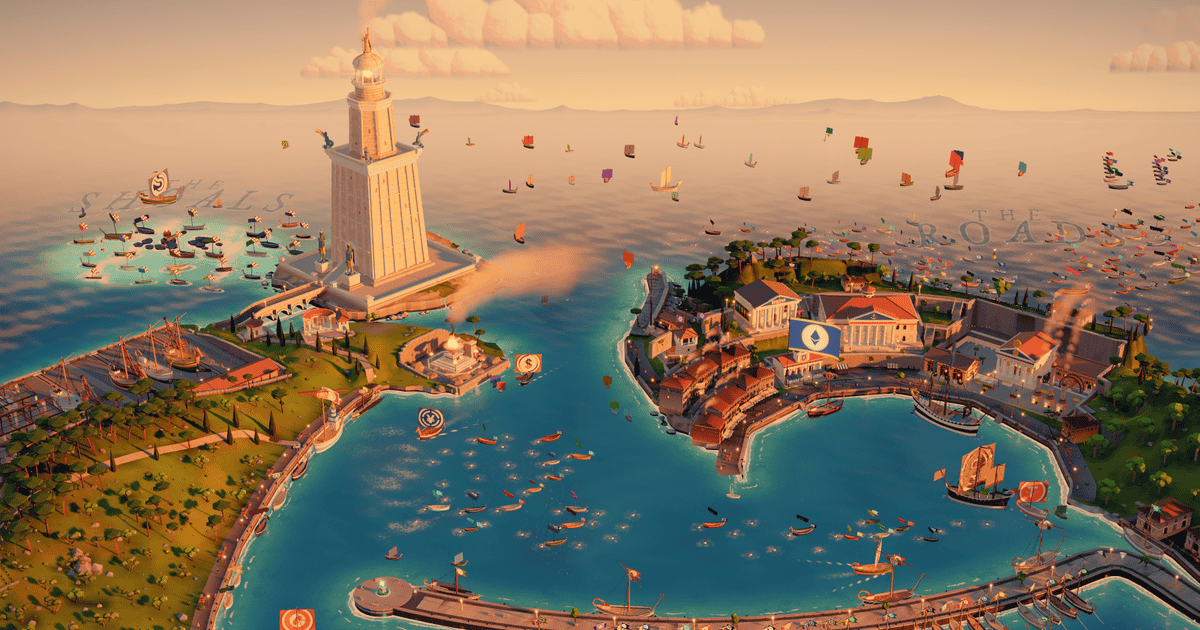
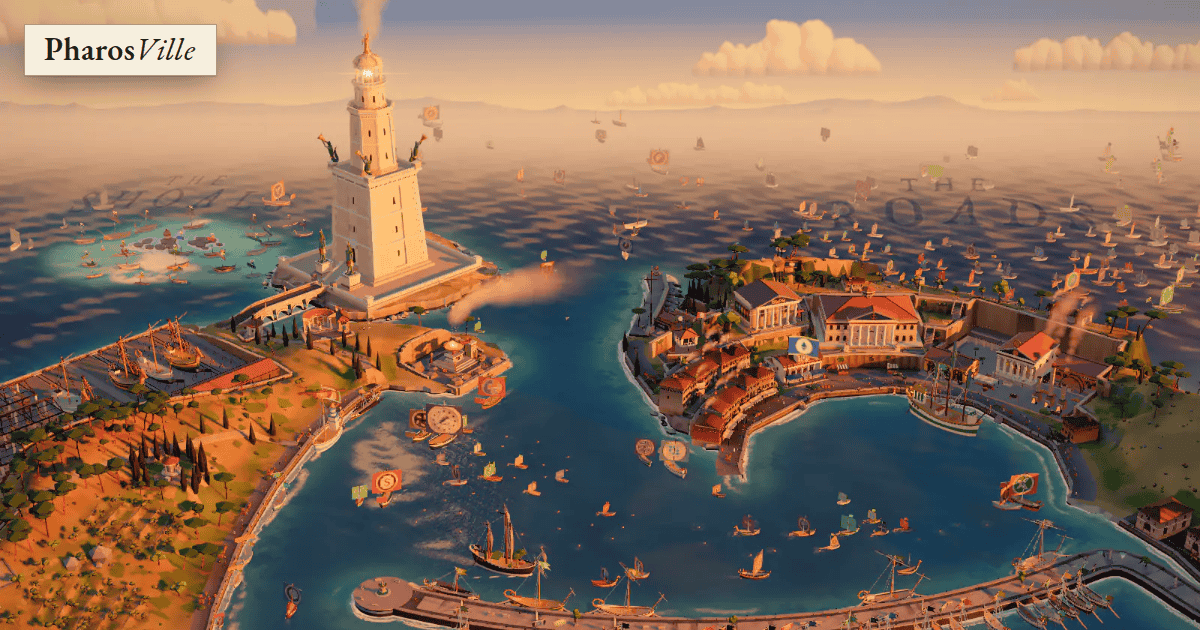
u-welcome: the OG card from the current key art with a discreet PharosVille wordmark lockup (U6)
public/og-card.png (1200x630) re-rendered from the v1.7.0 day key art (Pharos v2) by the new
scripts/harbour/render-og-card.mjs: composed and captured in the shared real-GPU Chrome through
shot.mjs --no-world (the live corner mark's paper plaque, top left; no readings, no token or chain
names), pngquant 128 colours + oxipng: 290,186 B (was 285,847 B); budgets.json media ceiling at
measured + 5 % with a dated note. GITHUB_MEDIA.md's "No text" line amended to the lockup.

diff --git a/docs/pharosville/GITHUB_MEDIA.md b/docs/pharosville/GITHUB_MEDIA.md
@@ -1,12 +1,12 @@
 # PharosVille GitHub Media
 
-Last updated: 2026-10-15
+Last updated: 2026-11-09
 
 Use this file to keep GitHub, README, and social-preview media consistent.
 
 ## Current Assets
 
-- OG card / README brand preview: `public/og-card.png` (1200×630), cropped from the Harbour key art (golden hour, the default heart framing). No text and no live numbers.
+- OG card / README brand preview: `public/og-card.png` (1200×630), cropped from the Harbour key art (golden hour, the default heart framing) with a discreet PharosVille wordmark lockup (the corner mark's paper plaque, top left; U6). No other text, no readings or live numbers, no token or chain names. Regenerate it after the key art changes with `node scripts/harbour/render-og-card.mjs --base <dev server>` (the shared real-GPU capture; its byte ceiling is `scripts/perf/budgets.json` `media["/og-card.png"]`).
 - First-paint poster and small-screen illustration: `public/harbour/poster-{960,1600}.{avif,webp}` (golden hour) and
   its night variant `public/harbour/poster-night-{960,1600}.{avif,webp}`, which the `/` Function names instead before
   first paint when the visitor's own hour is night (`functions/_poster.ts`).
